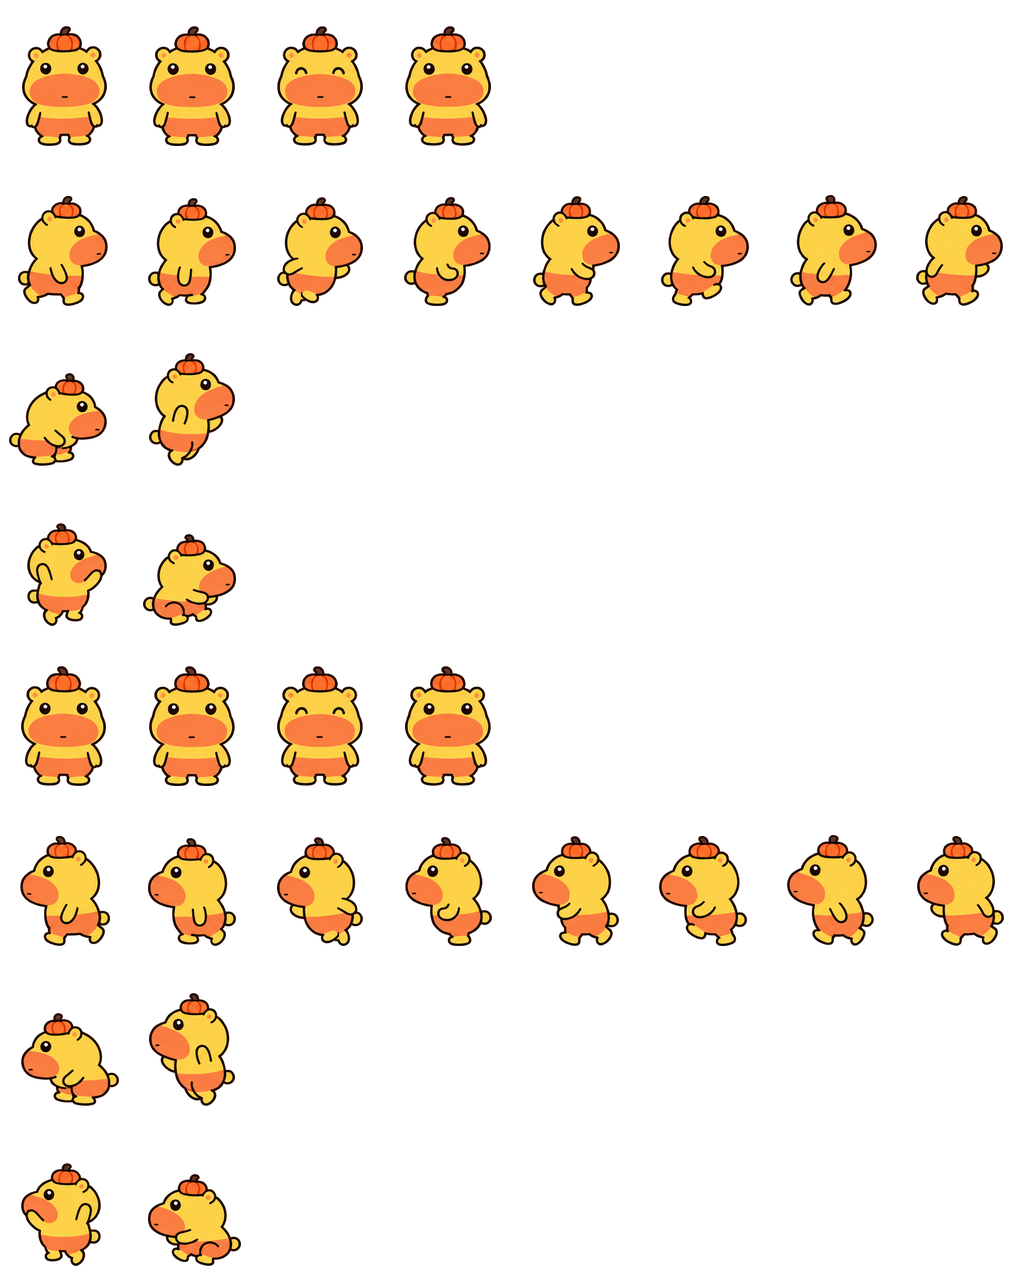
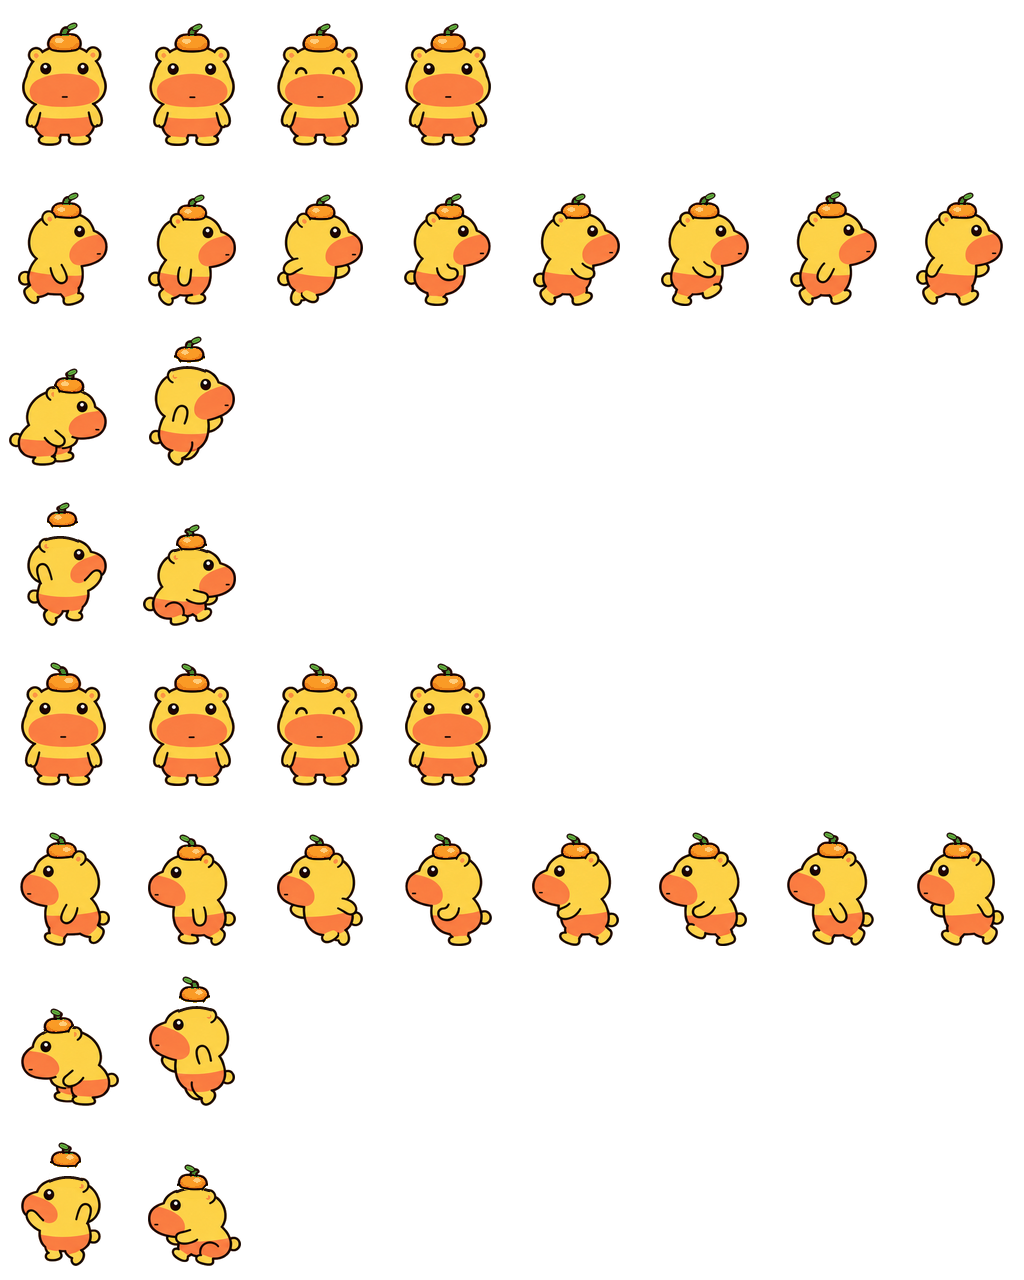
fix: give 噜噜 an orange that floats off her head when she jumps
- Repaint the pumpkin on her head as a mandarin orange with a green leaf
- Lift the orange off her head in the jump and fall frames so she catches it on landing
- Describe the orange in her text and generation prompt instead of a pumpkin
- Require arms to swing opposite the legs in the run-cycle spec and prompts

diff --git a/public/characters/README.md b/public/characters/README.md
@@ -64,6 +64,7 @@ All text fields are language maps: `zh-CN` and `en` are required, `zh-TW` falls 
 - **脚底统一落在 y = 146**（格子内坐标），跳跃 / 下落帧也一样，角色的位置由游戏控制。
 - 角色高约 110–125 px、宽不超过 122 px；以头部为准水平居中，摆臂迈腿时身体不要左右晃。
 - 8 帧跑步要首尾相接：右脚着地 → 下沉 → 交错 → 上推 → 左脚着地 → 下沉 → 交错 → 上推。步子小、头的高度只差几个像素，相邻两帧变化要小，否则看起来卡顿。
+- 手臂和腿反向摆动：右腿在前时右手在后、左手在前，第 1 帧和第 5 帧两只手正好交换位置。手一直停在同一个位置的跑步看起来会很僵。
 - `full-atlas.png` 是同样的布局，只是肚子鼓成半透明的大圆球、里面隐约有个小伙伴的影子，双手抱着肚子。游戏里会把它放大 1.2 倍画，所以整个角色要比平时小一圈，头和脚与平时一样大。
 
 ## 生成提示词模板 / Prompt templates
@@ -82,7 +83,7 @@ All text fields are language maps: `zh-CN` and `en` are required, `zh-TW` falls 
 > Create a 2D game SPRITE SHEET of exactly the character shown in the attached reference image (same design, colors, proportions, face, flat 2D sticker style with thick dark-brown outline). Transparent background. Every sprite is the full body at the SAME scale, separated by generous empty space; nothing touches or overlaps; no text, no grid lines, no shadows, no ground.
 > Exactly 4 horizontal rows, all side-scroller poses FACING RIGHT except the idle row:
 > Row 1 — IDLE: 4 frames, front view standing, gentle breathing bob; frame 3 has eyes closed (blink).
-> Row 2 — RUN: 8 frames, a smooth looping run cycle viewed from the side facing right: 1 right leg forward heel contact, 2 weight down, 3 legs passing, 4 push up, 5 left leg forward heel contact, 6 weight down, 7 legs passing, 8 push up. Short quick steps; head and body keep the same size and almost the same height in every frame.
+> Row 2 — RUN: 8 frames, a smooth looping run cycle viewed from the side facing right: 1 right leg forward heel contact, 2 weight down, 3 legs passing, 4 push up, 5 left leg forward heel contact, 6 weight down, 7 legs passing, 8 push up. Arms swing OPPOSITE to the legs like a real runner: when the right leg is forward the right arm is back and the left arm is forward, and the arms clearly trade places between frames 1 and 5. Short quick steps; head and body keep the same size and almost the same height in every frame.
 > Row 3 — JUMP: 2 frames facing right: crouched takeoff, then rising in the air with legs tucked and arms up.
 > Row 4 — FALL: 2 frames facing right: falling with arms raised and legs dangling, then bracing to land.
 > Rows 1, 3, 4 are left-aligned and leave the rest of the row empty.
@@ -96,6 +97,10 @@ All text fields are language maps: `zh-CN` and `en` are required, `zh-TW` falls 
 只改一处时明确「其余保持不变」，例如：
 
 > Edit this sprite sheet: keep EVERYTHING exactly the same (layout, number of frames, poses, sizes, colors, transparent background) and change ONLY the eyes: big round glossy friendly eyes with a small white highlight, no heavy eyelids, no frown. In the blink frame the eyes are happy closed arcs.
+
+只修跑步手臂时：
+
+> Edit this sprite sheet: keep EVERYTHING exactly the same (layout, number of frames, the idle / jump / fall rows, the legs, sizes, colors, transparent background) and change ONLY the arms in the 8-frame RUN row so they swing opposite to the legs like a real runner: when the right leg is forward the right arm is back and the left arm is forward; in frames 1–4 the near arm swings from back to front and in frames 5–8 from front to back, so the two arms clearly trade places. Keep the hands the same shape and color.
 
 ## 切图 / Packing
 
